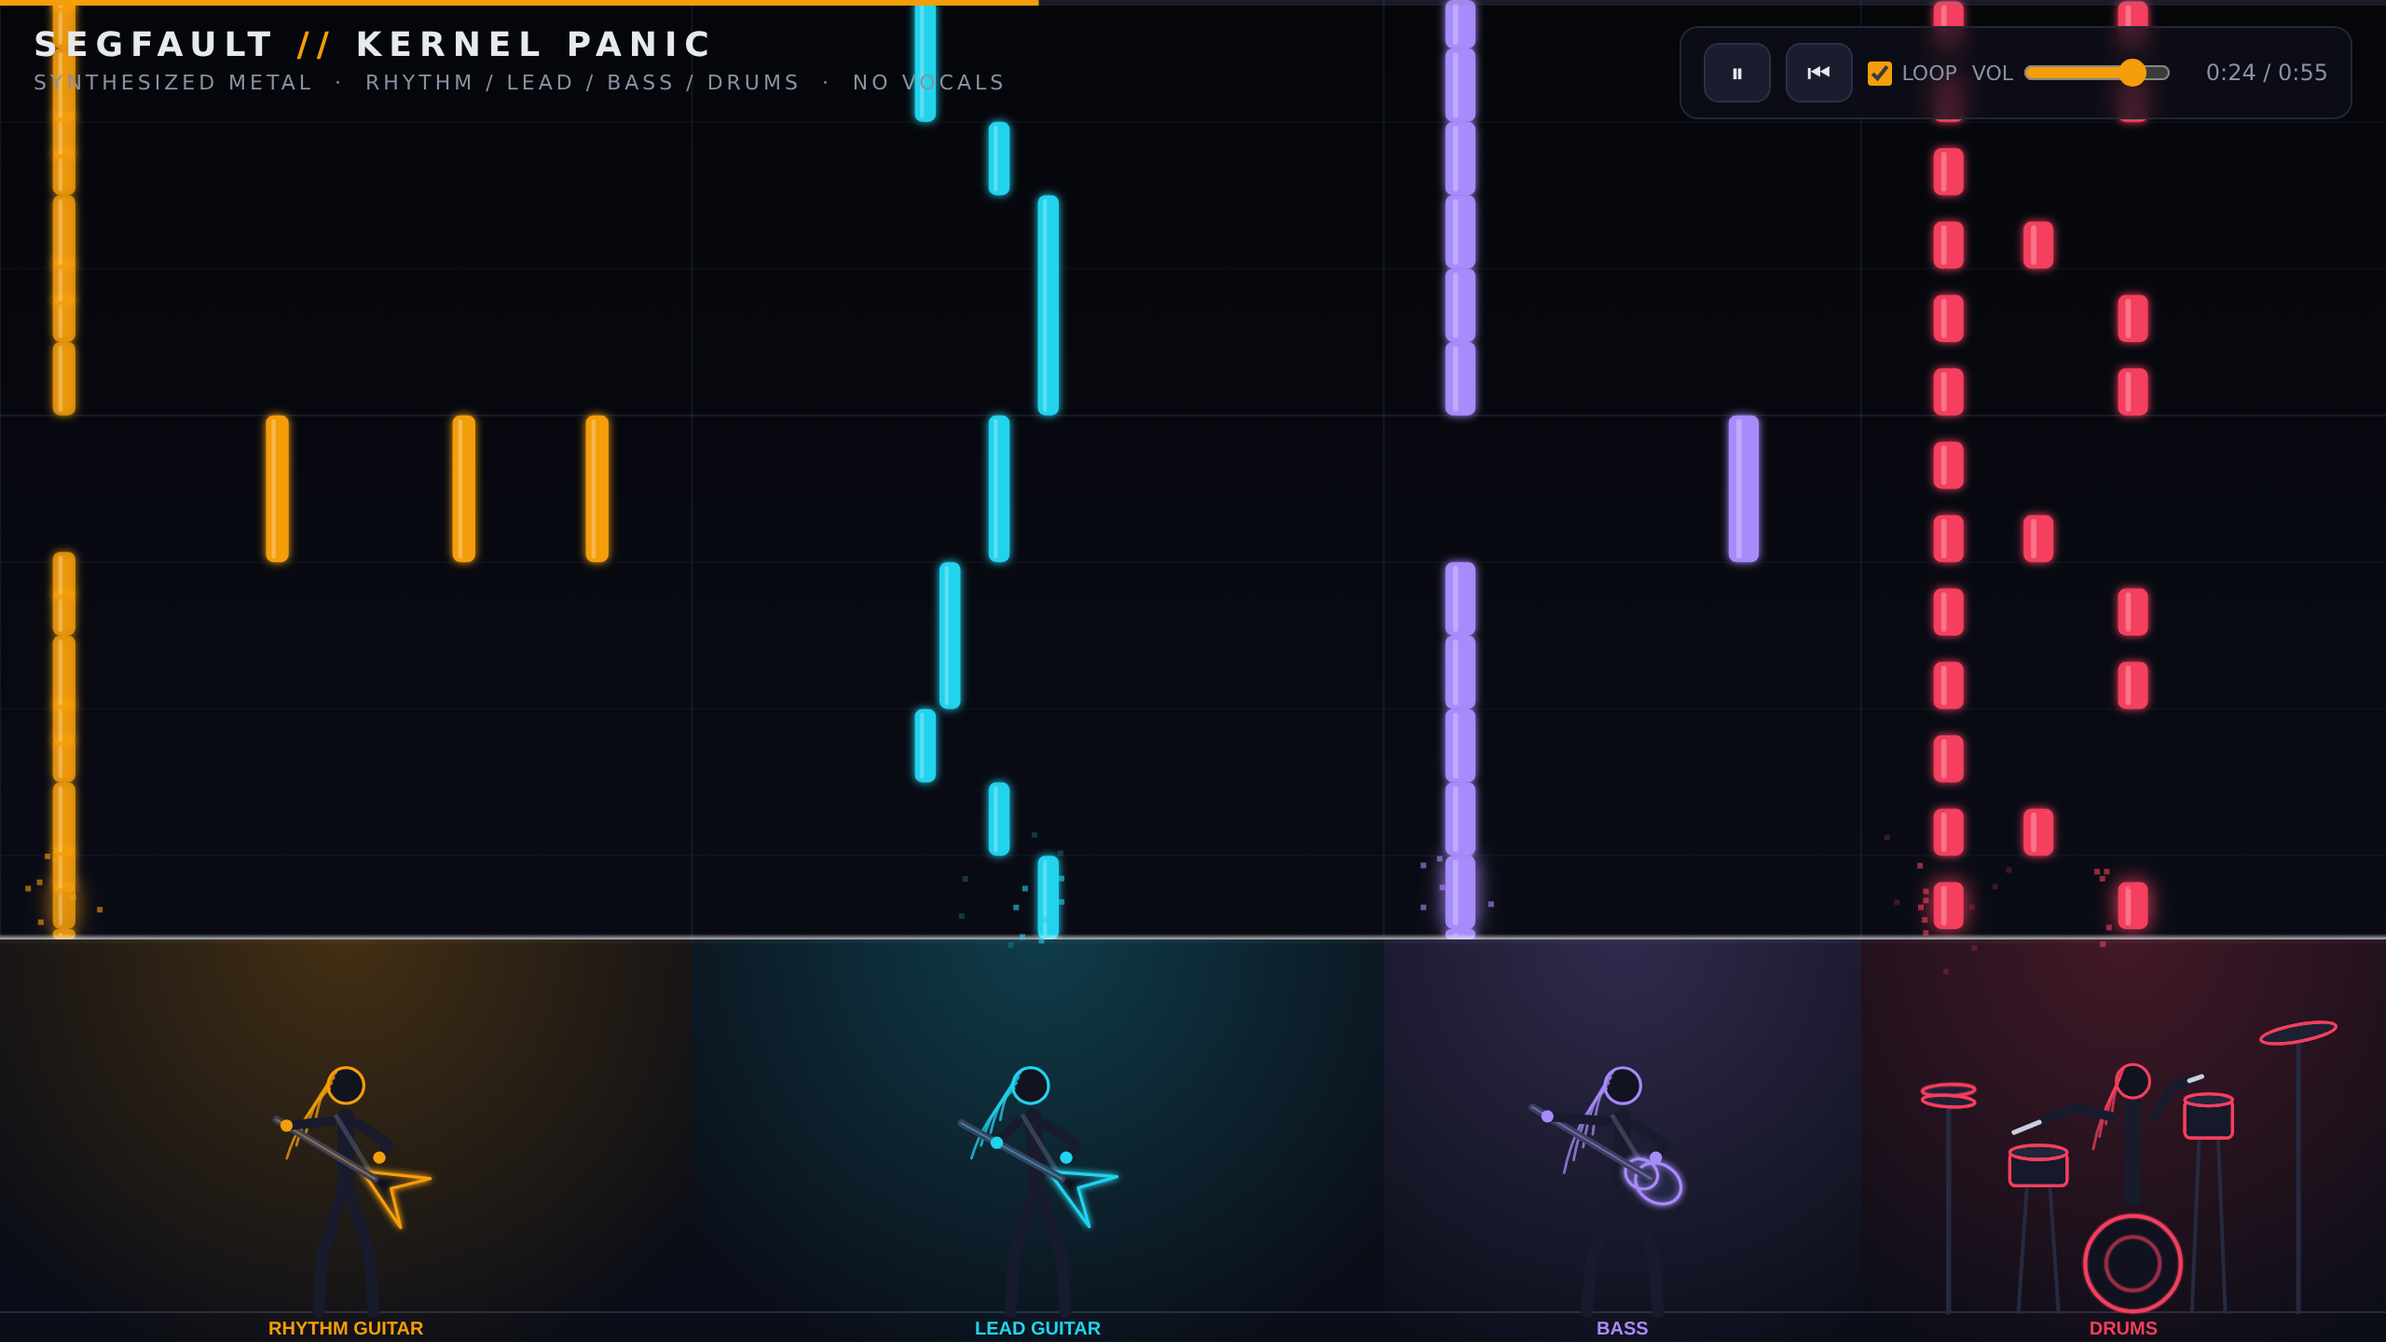
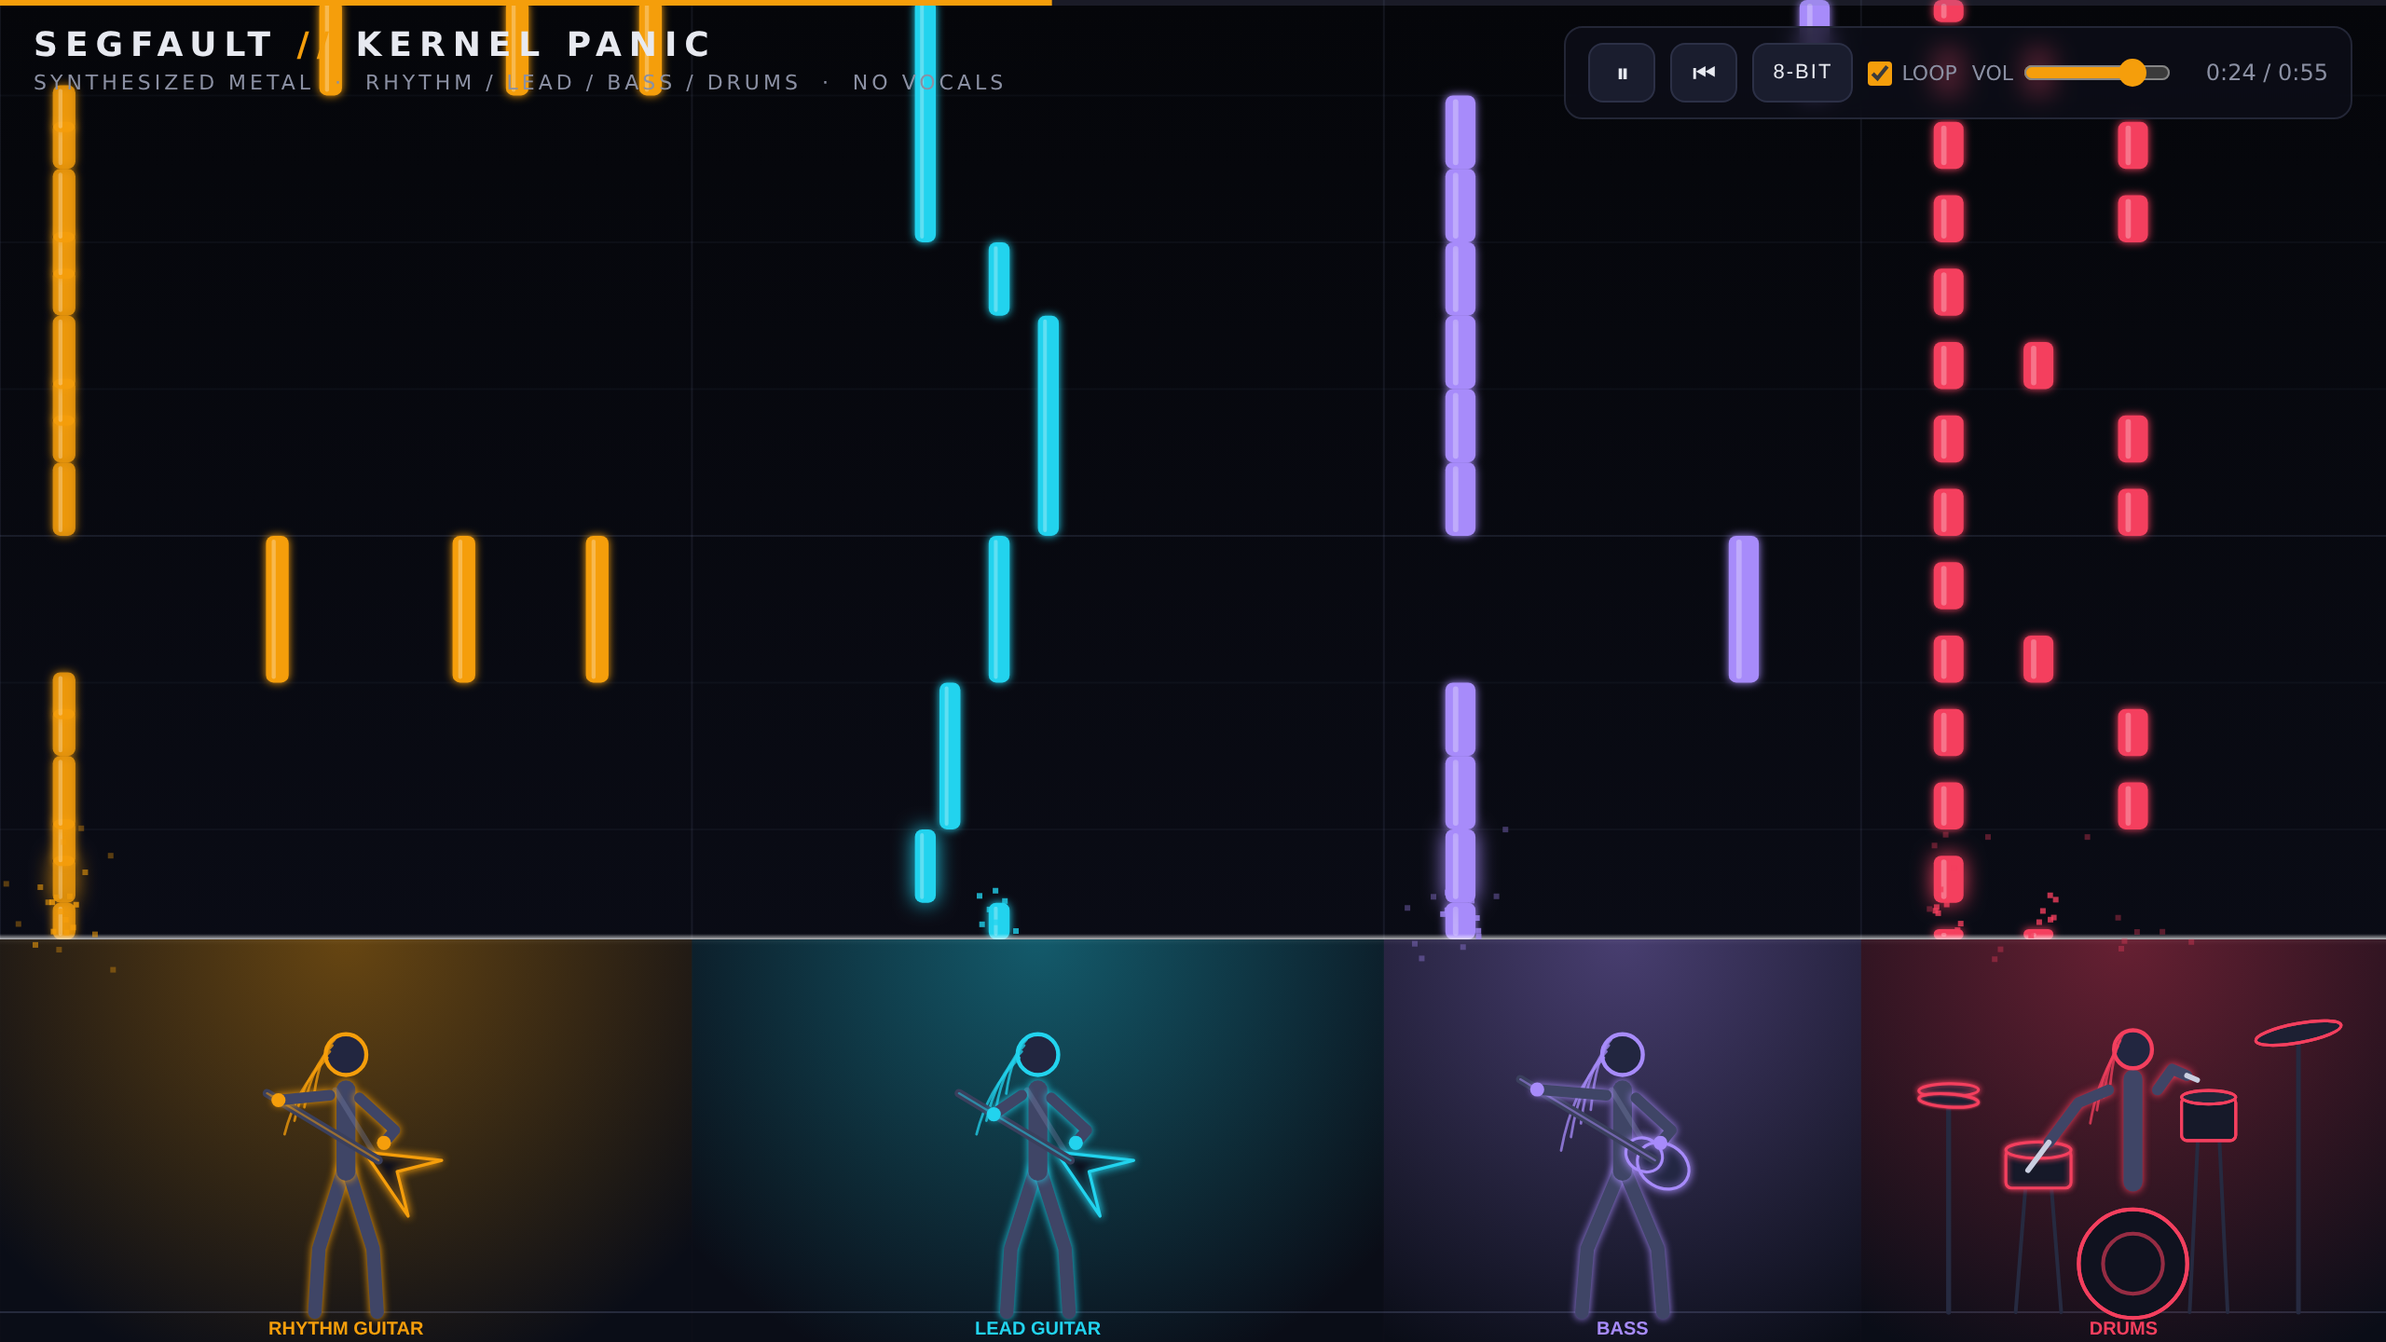
Add 8-bit chiptune sound engine (default) and make characters glow
Sound: new video-game-style engine — 25%-duty pulse rhythm chords,
square lead with vibrato and arcade echo, NES triangle bass, and
noise-channel drums. Toggle between 8-BIT and the amp-sim METAL
engine live from the controls.

Visuals: characters are now brightly visible — lighter bodies with
neon glow in their instrument color, larger figures, brighter heads,
and stronger spotlights.

https://claude.ai/code/session_01THsYoS23YptiEZJVjRpVFc

diff --git a/app.js b/app.js
@@ -221,6 +221,8 @@ for (const tr of TRACKS) {
 
 let ctx = null, master = null, busses = null, noiseBuf = null;
 let hatBuf = null, crashBuf = null, reverbSend = null;
+let PW25 = null; // 25%-duty pulse wave for the chip rhythm guitar
+let soundMode = 'chip'; // 'chip' (8-bit) or 'metal' (amp sim)
 
 function distCurve(k) {
   const n = 2048, c = new Float32Array(n);
@@ -347,6 +349,28 @@ function initAudio() {
   dly.connect(wet); wet.connect(master);
   const leadVerb = ctx.createGain(); leadVerb.gain.value = 0.2;
   busses.lead.out.connect(leadVerb); leadVerb.connect(reverbSend);
+
+  /* --- chip (8-bit) busses: clean gains, softened top end --- */
+  // 25%-duty pulse: imag[n] = (4/nπ)·sin(nπ·duty), band-limited to 32 harmonics
+  const N = 32;
+  const real = new Float32Array(N + 1), imag = new Float32Array(N + 1);
+  for (let n = 1; n <= N; n++) imag[n] = (4 / (n * Math.PI)) * Math.sin(n * Math.PI * 0.25);
+  PW25 = ctx.createPeriodicWave(real, imag);
+
+  const chipBus = name => {
+    const lp = ctx.createBiquadFilter(); lp.type = 'lowpass'; lp.frequency.value = 9000;
+    const g = ctx.createGain(); g.gain.value = 1;
+    g.connect(lp); lp.connect(master);
+    busses[name] = g;
+  };
+  chipBus('chipR'); chipBus('chipL'); chipBus('chipB');
+
+  // arcade echo on the chip lead
+  const cdly = ctx.createDelay(1); cdly.delayTime.value = STEP * 3;
+  const cfb = ctx.createGain(); cfb.gain.value = 0.3;
+  const cwet = ctx.createGain(); cwet.gain.value = 0.22;
+  busses.chipL.connect(cdly); cdly.connect(cfb); cfb.connect(cdly);
+  cdly.connect(cwet); cwet.connect(master);
 }
 
 /* --- Karplus-Strong plucked string, cached per (pitch, duration, articulation) --- */
@@ -412,14 +436,81 @@ function pluck(bus, t, midi, dur, { pm = false, vel = 1, vibrato = false, bass =
   src.start(t);
 }
 
+/* --- chip (8-bit) voices --- */
+function chipPulse(bus, t, midi, dur, { wave = null, pm = false, vel = 1, vibrato = false } = {}) {
+  const o = ctx.createOscillator();
+  if (wave) o.setPeriodicWave(wave); else o.type = 'square';
+  o.frequency.value = midiHz(midi);
+  // tiny pitch blip on the attack for punch
+  o.detune.setValueAtTime(45, t);
+  o.detune.linearRampToValueAtTime(0, t + 0.03);
+
+  const amp = 0.3 * vel;
+  const g = ctx.createGain();
+  g.gain.setValueAtTime(0, t);
+  g.gain.linearRampToValueAtTime(amp, t + 0.004);
+  if (pm) { // staccato chug
+    g.gain.setValueAtTime(amp, t + 0.05);
+    g.gain.linearRampToValueAtTime(0, t + 0.09);
+  } else {
+    g.gain.setValueAtTime(amp, t + 0.05);
+    g.gain.exponentialRampToValueAtTime(Math.max(amp * 0.35, 0.001), t + Math.max(dur, 0.12));
+    g.gain.linearRampToValueAtTime(0, t + dur + 0.06);
+  }
+
+  if (vibrato) {
+    const lfo = ctx.createOscillator(); lfo.frequency.value = 6;
+    const lg = ctx.createGain();
+    lg.gain.setValueAtTime(0, t);
+    lg.gain.linearRampToValueAtTime(22, t + 0.35); // cents
+    lfo.connect(lg); lg.connect(o.detune);
+    lfo.start(t); lfo.stop(t + dur + 0.1);
+  }
+
+  o.connect(g); g.connect(bus);
+  o.start(t); o.stop(t + dur + 0.12);
+}
+
+function chipBassNote(t, midi, dur, vel = 1) {
+  // NES-style triangle bass, played an octave up so it carries
+  const o = ctx.createOscillator(); o.type = 'triangle';
+  o.frequency.value = midiHz(midi + 12);
+  const g = ctx.createGain();
+  const amp = 0.65 * vel;
+  g.gain.setValueAtTime(0, t);
+  g.gain.linearRampToValueAtTime(amp, t + 0.004);
+  g.gain.setValueAtTime(amp, t + Math.max(0.03, Math.min(dur, 0.16) - 0.03));
+  g.gain.linearRampToValueAtTime(0, t + Math.min(dur, 0.18));
+  o.connect(g); g.connect(busses.chipB);
+  o.start(t); o.stop(t + dur + 0.05);
+}
+
+/* --- mode-aware note dispatchers (the schedule calls these) --- */
+function playRhythm(at, m, dur, pm, vel) {
+  if (soundMode === 'metal') pluck(busses.rhythm, at, m, dur, { pm, vel });
+  else chipPulse(busses.chipR, at, m, dur, { wave: PW25, pm, vel });
+}
+function playLead(at, m, dur, vib) {
+  if (soundMode === 'metal') pluck(busses.lead, at, m, dur, { lead: true, vibrato: vib });
+  else chipPulse(busses.chipL, at, m, dur, { vel: 1.1, vibrato: vib });
+}
+function playBass(at, m, dur) {
+  if (soundMode === 'metal') pluck(busses.bass, at, m, dur, { bass: true, pm: dur <= 2 * STEP });
+  else chipBassNote(at, m, dur);
+}
+
 /* --- drums --- */
-function noiseHit(t, { hpFreq, bpFreq, bpQ = 0.9, dur, gain, verb = 0 }) {
+function noiseHit(t, { hpFreq, lpFreq, bpFreq, bpQ = 0.9, dur, gain, verb = 0 }) {
   const src = ctx.createBufferSource(); src.buffer = noiseBuf;
   src.loop = true;
   let node = src;
   if (hpFreq) {
     const hp = ctx.createBiquadFilter(); hp.type = 'highpass'; hp.frequency.value = hpFreq;
     node.connect(hp); node = hp;
+  }
+  if (lpFreq) {
+    const lp = ctx.createBiquadFilter(); lp.type = 'lowpass'; lp.frequency.value = lpFreq;
+    node.connect(lp); node = lp;
   }
   if (bpFreq) {
     const bp = ctx.createBiquadFilter(); bp.type = 'bandpass'; bp.frequency.value = bpFreq; bp.Q.value = bpQ;
@@ -467,6 +558,7 @@ function tonalHit(t, { f0, f1, fallT, dur, gain, type = 'sine', verb = 0 }) {
 }
 
 function drumHit(p, t) {
+  if (soundMode === 'chip') return chipDrumHit(p, t);
   if (p === 'K') {
     tonalHit(t, { f0: 160, f1: 47, fallT: 0.07, dur: 0.24, gain: 1.05 });
     noiseHit(t, { hpFreq: 2000, dur: 0.02, gain: 0.5 });           // beater click
@@ -484,20 +576,37 @@ function drumHit(p, t) {
   }
 }
 
+/* NES-noise-channel-style kit */
+function chipDrumHit(p, t) {
+  if (p === 'K') {
+    tonalHit(t, { f0: 170, f1: 38, fallT: 0.05, dur: 0.13, gain: 1.0, type: 'triangle' });
+    noiseHit(t, { lpFreq: 420, dur: 0.05, gain: 0.6 });
+  } else if (p === 'S') {
+    noiseHit(t, { bpFreq: 2200, bpQ: 0.5, dur: 0.05, gain: 0.6 });
+    noiseHit(t, { hpFreq: 1200, dur: 0.11, gain: 0.45 });
+  } else if (p === 'H') {
+    noiseHit(t, { hpFreq: 9000, dur: 0.03, gain: 0.3 });
+  } else if (p === 'C') {
+    noiseHit(t, { hpFreq: 5500, dur: 0.6, gain: 0.45 });
+  } else if (p === 'T') {
+    tonalHit(t, { f0: 190, f1: 95, fallT: 0.1, dur: 0.16, gain: 0.7, type: 'square' });
+  }
+}
+
 /* --- flat, time-sorted list of everything to play --- */
 function buildSchedule() {
   const ev = [];
   for (const n of R) {
     const tones = n.ch ? [[n.m, 1], [n.m + 7, 0.8], [n.m + 12, 0.6]] : [[n.m, 1]];
     for (const [m, gv] of tones) {
-      ev.push({ t: n.s * STEP, fire: at => pluck(busses.rhythm, at, m, n.d * STEP, { pm: n.pm, vel: n.v * gv }) });
+      ev.push({ t: n.s * STEP, fire: at => playRhythm(at, m, n.d * STEP, n.pm, n.v * gv) });
     }
   }
   for (const n of L) {
-    ev.push({ t: n.s * STEP, fire: at => pluck(busses.lead, at, n.m, n.d * STEP, { lead: true, vibrato: n.d >= 6 }) });
+    ev.push({ t: n.s * STEP, fire: at => playLead(at, n.m, n.d * STEP, n.d >= 6) });
   }
   for (const n of BS) {
-    ev.push({ t: n.s * STEP, fire: at => pluck(busses.bass, at, n.m, n.d * STEP, { bass: true, pm: n.d <= 2 }) });
+    ev.push({ t: n.s * STEP, fire: at => playBass(at, n.m, n.d * STEP) });
   }
   for (const n of DRm) {
     ev.push({ t: n.s * STEP, fire: at => drumHit(n.p, at) });
@@ -663,9 +772,9 @@ function strokeLine(pts, w, color, blur = 0, blurColor = null) {
 
 function drawHead(x, y, r, ang, color, hair) {
   // skull
-  g2d.fillStyle = '#11131f';
+  g2d.fillStyle = '#222640';
   g2d.strokeStyle = color;
-  g2d.lineWidth = 1.6;
+  g2d.lineWidth = 2.2;
   g2d.beginPath();
   g2d.arc(x, y, r, 0, Math.PI * 2);
   g2d.fill(); g2d.stroke();
@@ -693,17 +802,23 @@ function drawHead(x, y, r, ang, color, hair) {
   }
 }
 
-const BODY = '#181b2c';
+const BODY = '#3f4566';
+let bodyGlow = '#ffffff'; // set per character before drawing
+
+function bodyStroke(pts, w) {
+  strokeLine(pts, w, BODY, 9, bodyGlow);
+}
 
 function drawLegs(cx, hipY, floorY, s, spread, bob) {
-  strokeLine([[cx - 1 * s, hipY], [cx - spread * s, hipY + (floorY - hipY) * 0.55 + bob], [cx - spread * 1.15 * s, floorY]], 5 * s, BODY);
-  strokeLine([[cx + 1 * s, hipY], [cx + spread * s, hipY + (floorY - hipY) * 0.55 + bob], [cx + spread * 1.15 * s, floorY]], 5 * s, BODY);
+  bodyStroke([[cx - 1 * s, hipY], [cx - spread * s, hipY + (floorY - hipY) * 0.55 + bob], [cx - spread * 1.15 * s, floorY]], 5 * s);
+  bodyStroke([[cx + 1 * s, hipY], [cx + spread * s, hipY + (floorY - hipY) * 0.55 + bob], [cx + spread * 1.15 * s, floorY]], 5 * s);
 }
 
 /* --- guitarist / bassist: shared rig, different instrument + feel --- */
 function drawStringPlayer(tr, colX, colW, stageTop, floorY, tNow, kind) {
+  bodyGlow = tr.color;
   const cx = colX + colW / 2;
-  const s = (floorY - stageTop) / 150;
+  const s = (floorY - stageTop) / 132;
 
   const isBass = kind === 'bass';
   const isLead = kind === 'lead';
@@ -730,7 +845,7 @@ function drawStringPlayer(tr, colX, colW, stageTop, floorY, tNow, kind) {
 
   drawLegs(cx, hipY, floorY, s, isBass ? 13 : 10, bob);
   // torso
-  strokeLine([[cx, hipY], [shX, shY]], 7 * s, BODY);
+  bodyStroke([[cx, hipY], [shX, shY]], 7 * s);
 
   // head + hair
   const headAng = lean + bang * 0.9;
@@ -783,14 +898,14 @@ function drawStringPlayer(tr, colX, colW, stageTop, floorY, tNow, kind) {
   const fpos = 0.92 - fr * 0.55; // higher note -> closer to the body
   const fx = bodyPt[0] + (tipPt[0] - bodyPt[0]) * fpos;
   const fy = bodyPt[1] + (tipPt[1] - bodyPt[1]) * fpos;
-  strokeLine([[shX - 6 * s, shY + 2 * s], [fx, fy]], 4 * s, BODY);
+  bodyStroke([[shX - 6 * s, shY + 2 * s], [fx, fy]], 4 * s);
   g2d.fillStyle = tr.color;
   g2d.beginPath(); g2d.arc(fx, fy, 2.6 * s, 0, Math.PI * 2); g2d.fill();
 
   // strum hand: swings down through the strings on every hit
   const sx = bodyPt[0] + 2 * s;
   const sy = bodyPt[1] - 10 * s + strum * 16 * s;
-  strokeLine([[shX + 5 * s, shY + 3 * s], [sx + 4 * s, sy - (6 * s) * (1 - strum)], [sx, sy]], 4 * s, BODY);
+  bodyStroke([[shX + 5 * s, shY + 3 * s], [sx + 4 * s, sy - (6 * s) * (1 - strum)], [sx, sy]], 4 * s);
   g2d.fillStyle = tr.color;
   g2d.beginPath(); g2d.arc(sx, sy, 2.6 * s, 0, Math.PI * 2); g2d.fill();
 }
@@ -826,7 +941,8 @@ let floorYG = 0; // shared with drawCymbal for stands
 
 function drawDrummer(tr, colX, colW, stageTop, floorY, tNow) {
   const kit = kitLayout(colX, colW, stageTop, floorY);
-  const s = (floorY - stageTop) / 150;
+  bodyGlow = tr.color;
+  const s = (floorY - stageTop) / 132;
   floorYG = floorY;
   const color = tr.color;
 
@@ -872,7 +988,7 @@ function drawDrummer(tr, colX, colW, stageTop, floorY, tNow) {
   const hipY = floorY - 48 * s;
   const shY = hipY - 38 * s + bob;
 
-  strokeLine([[cx, hipY], [cx, shY]], 7 * s, BODY);
+  bodyStroke([[cx, hipY], [cx, shY]], 7 * s);
   drawHead(cx, shY - 11 * s + bob * 0.5, 7 * s, bob * 0.12, color, { back: 0.6, len: 18 * s, swing: bob * 0.15 });
 
   // arms: left covers hat + snare, right covers tom + crash; rest above snare/tom
@@ -895,7 +1011,7 @@ function drawDrummer(tr, colX, colW, stageTop, floorY, tNow) {
       tip = [rest[0] + (target[0] - rest[0]) * f, rest[1] + (target[1] - rest[1]) * f];
     }
     const elbow = [(sh[0] + tip[0]) / 2, (sh[1] + tip[1]) / 2 - 5 * s];
-    strokeLine([sh, elbow, tip], 4 * s, BODY);
+    bodyStroke([sh, elbow, tip], 4 * s);
     strokeLine([tip, [tip[0] + (tip[0] - elbow[0]) * 0.7, tip[1] + (tip[1] - elbow[1]) * 0.7]], 2 * s, '#c9cee0');
   }
   arm(shL, restL, [['H', eH], ['S', eS]]);
@@ -1017,7 +1133,7 @@ function frame(ts) {
     // spotlight pulsing with hits
     const hitE = env(tNow, tr._lastHit, 6);
     const spot = g2d.createRadialGradient(cx, hitY, 6, cx, hitY, (H - hitY) * 1.15);
-    spot.addColorStop(0, tr.glow + (0.16 + hitE * 0.2) + ')');
+    spot.addColorStop(0, tr.glow + (0.24 + hitE * 0.25) + ')');
     spot.addColorStop(1, tr.glow + '0)');
     g2d.fillStyle = spot;
     g2d.fillRect(colX, hitY, colW, H - hitY);
@@ -1067,6 +1183,10 @@ document.getElementById('start').addEventListener('click', begin);
 document.getElementById('btnPlay').addEventListener('click', () => { if (started) setPlaying(!playing); });
 document.getElementById('btnRestart').addEventListener('click', () => { if (started) restart(); });
 document.getElementById('vol').addEventListener('input', e => { if (master) master.gain.value = parseFloat(e.target.value); });
+document.getElementById('btnSound').addEventListener('click', e => {
+  soundMode = soundMode === 'chip' ? 'metal' : 'chip';
+  e.target.textContent = soundMode === 'chip' ? '8-BIT' : 'METAL';
+});
 window.addEventListener('keydown', e => {
   if (e.code === 'Space' && started) { e.preventDefault(); setPlaying(!playing); }
 });

diff --git a/index.html b/index.html
@@ -60,6 +60,7 @@
   <div id="controls">
     <button id="btnPlay" title="Play / pause (space)">⏸</button>
     <button id="btnRestart" title="Restart">⏮</button>
+    <button id="btnSound" title="Toggle sound engine: 8-bit chiptune / amp-sim metal" style="width:auto;padding:0 10px;font-size:11px;letter-spacing:1px;">8-BIT</button>
     <label><input type="checkbox" id="chkLoop" checked> LOOP</label>
     <label>VOL <input type="range" id="vol" min="0" max="1" step="0.01" value="0.8"></label>
     <div id="time">0:00 / 0:00</div>

diff --git a/README.md b/README.md
@@ -46,11 +46,13 @@ Each instrument has a character on stage, animated entirely from the note data:
 
 - **Composition** — the song is written as step-sequencer data (16th-note grid at 160 BPM)
   in `app.js`, built up from riff/beat helper functions.
-- **Sound** — guitars and bass are **Karplus-Strong plucked strings** (palm mutes are
-  heavily damped, open chords ring) fed through a tanh `WaveShaperNode` amp with a cab-sim
-  EQ (mid scoop, presence peak, high rolloff). Drums are tuned sine drops with noise
-  transients; hats and crash are banks of inharmonic square waves (808-style); snare,
-  toms, cymbals and lead get a generated-impulse-response convolver reverb.
+- **Sound** — two engines, switchable live with the **8-BIT / METAL** button:
+  - **8-bit (default)** — video-game-style chiptune metal: 25%-duty pulse-wave rhythm
+    chords, square-wave lead with vibrato and arcade echo, NES-style triangle bass, and
+    noise-channel drums. Punchy and clean by construction.
+  - **Metal (amp sim)** — **Karplus-Strong plucked strings** (palm mutes heavily damped,
+    open chords ring) through a tanh `WaveShaperNode` amp with cab-sim EQ; 808-style
+    square-bank cymbals; generated-impulse-response convolver reverb.
 - **Visuals** — a single `<canvas>` renders the falling notes (lookahead of 2.4 s), moving
   beat grid, hit-line sparks, pulsing spotlights, and the four performers.
 - **Sync** — audio is scheduled with the standard Web Audio lookahead-scheduler pattern, and
@@ -61,5 +63,6 @@ Each instrument has a character on stage, animated entirely from the note data:
 
 - **Space / ⏸ button** — play / pause
 - **⏮** — restart
+- **8-BIT / METAL** — switch the sound engine on the fly
 - **LOOP** — toggle looping
 - **VOL** — master volume
